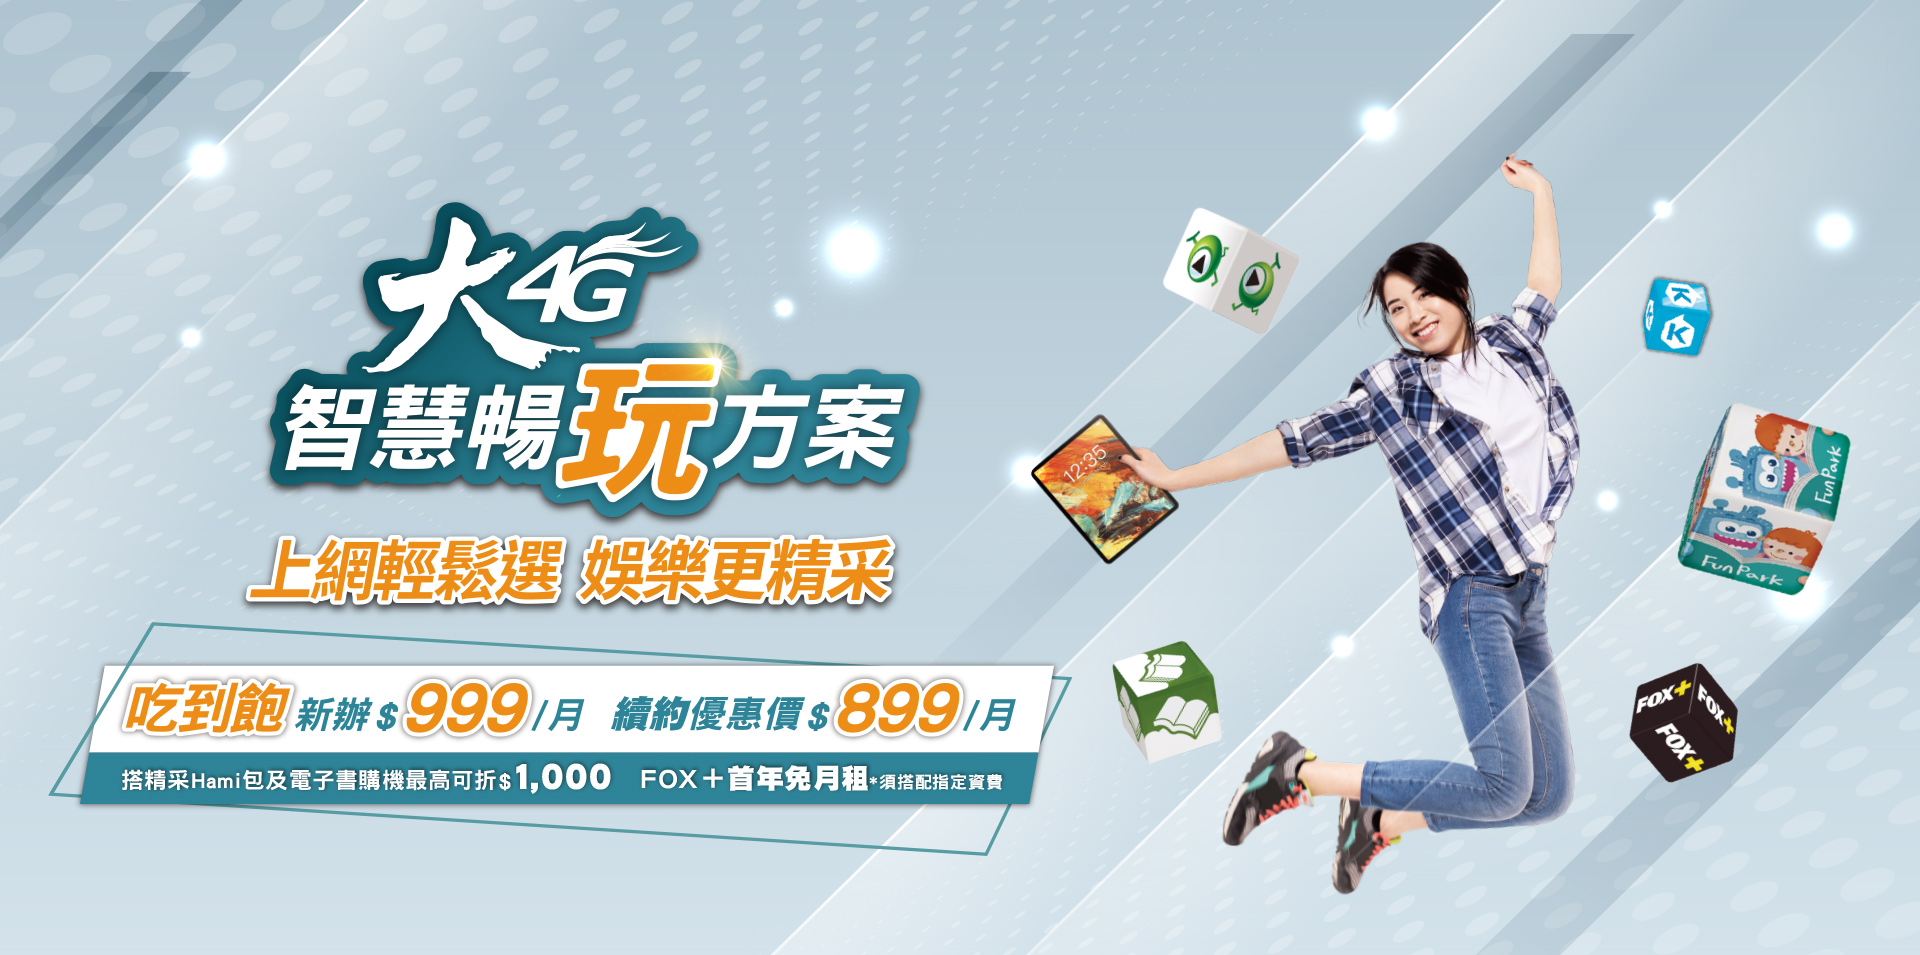
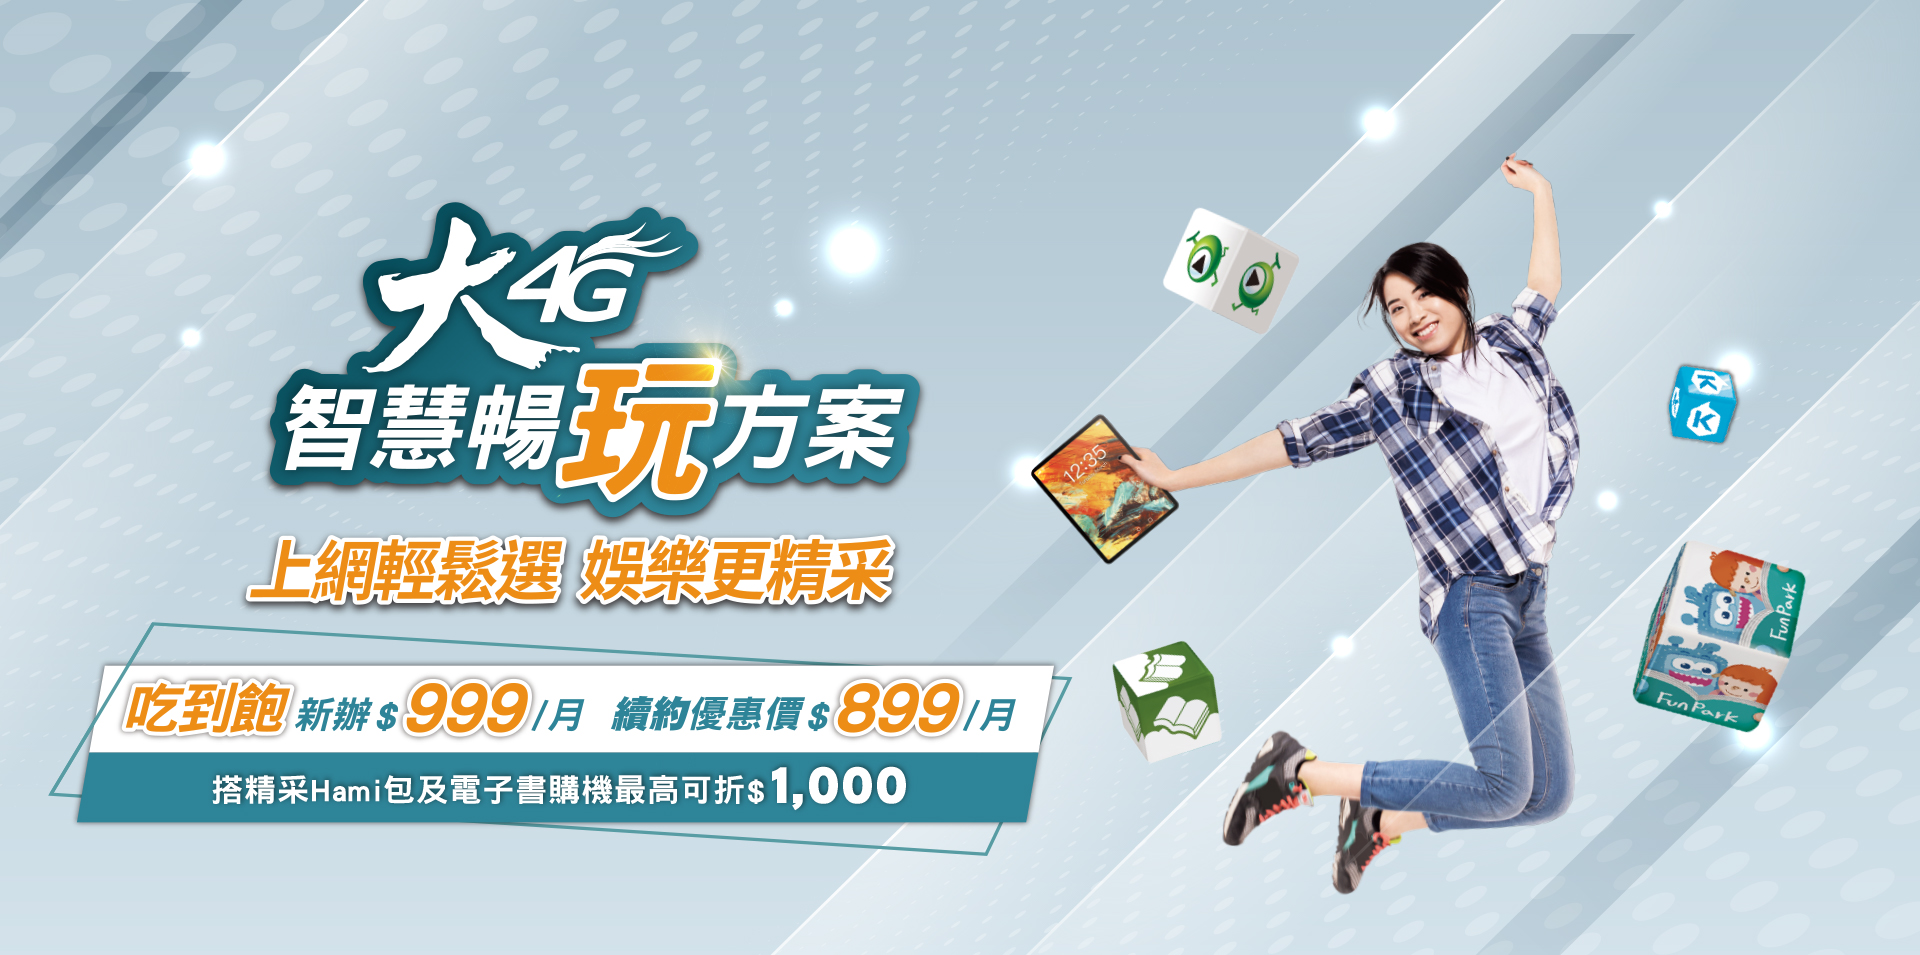
智慧暢玩
產品更新
主視覺更新
保護文字更新
方案刪除

Changed region(s): [[0.8438, 0.2733, 0.9688, 0.8199], [0.0312, 0.7895, 0.5312, 0.8806], [0.9375, 0.2126, 0.9688, 0.2733]]

diff --git a/demo/smart/index.html b/demo/smart/index.html
@@ -52,7 +52,7 @@
 	<meta name="title" content="大4G智慧暢玩方案 行動優惠推薦 | 中華電信官網 CHT.com.tw">
 	<meta name="viewport" content="width=device-width, initial-scale=1, maximum-scale=1, user-scalable=no">
 	<meta name="description" content="上網輕鬆選，娛樂更精彩，上網吃到飽新辦價$999，續約價$899，並享有限時優惠!通話均一價$3/分、搭Hami月讀包購機折$500等多項超值優惠">
-	<meta name="keywords" content="大4G,智慧大玩家,智慧暢玩,999,899,FOX+,通話均一價,上網輕鬆選，娛樂更精彩，上網吃到飽新辦$999，續約優惠價$899,中華電信,數位門市,中華電信官網,CHT.com.tw">
+	<meta name="keywords" content="大4G,智慧大玩家,智慧暢玩,999,899,通話均一價,上網輕鬆選，娛樂更精彩，上網吃到飽新辦$999，續約優惠價$899,中華電信,數位門市,中華電信官網,CHT.com.tw">
 	<!--facebook:og -->
 	<meta property="og:title" content="大4G智慧暢玩方案 行動優惠推薦 | 中華電信官網 CHT.com.tw">
 	<meta property="og:description" content="上網輕鬆選，娛樂更精彩，上網吃到飽新辦價$999，續約價$899，並享有限時優惠!通話均一價$3/分、搭Hami月讀包購機折$500等多項超值優惠">
@@ -2715,12 +2715,13 @@ h1.tit {
 				</div>
 				<!-- plan end -->
 				<div class="respect">
-					<h2>尊榮優惠</h2>
-					<ul>
-						<li><em>FOX+</em><br>(限合約期間36個月)</li><!--
-						 --><li><span><em class="red">*首年免月租</em>
-								<p>合約期間勁享強檔影音、精采運動賽事，娛樂升級無所不在<br><span>(限搭配月繳1,299元資費)</span></p>
-							</span><a href="https://www.emome.net/channel?chid=923"><img src="images/apply.png" /></a></li>
+
+					<h2></h2>
+					<ul style="display:none;">
+						<li><em></em><br></li><!--
+						 --><li><span><em class="red"></em>
+								<p><span></span></p>
+							</span></li>
 					</ul>
 
 					<h2>推薦加購服務</h2>
@@ -2729,15 +2730,15 @@ h1.tit {
 						--><li>
 							<p>月付<em>99</em>元享<em>*</em>精采Hami包加值服務任選一<em>*購機折價500元(限首項)</em></p>
 							<p class="m_v">(1) KKBOX (2) Hami Pass (3) Hami Video電視<br>
-								(4) Hami Video影劇 (5)FOX+(月繳1,299除外)<br>
-								(6) 至尊股票機 (7) 來電鈴聲超值包+Hami鈴聲館<br>
-								(8) 來電鈴聲超值包+色情守門員(行動版) (9)來電答鈴<br>
+								(4) Hami Video影劇 <br>
+								(5) 至尊股票機 (6) 來電鈴聲超值包+Hami鈴聲館<br>
+								(7) 來電鈴聲超值包+色情守門員(行動版) (8)來電答鈴<br>
 								超值包+CHT Wi-Fi(限無限送CHT Wi-Fi之資費選搭)
 							</p>
 							<p class="pc_v">
-								(1) KKBOX (2) Hami Pass (3) Hami Video電視 (4) Hami Video影劇 (5)FOX+(月繳1,299除外)<br>
-								(6) 至尊股票機 (7) 來電鈴聲超值包+Hami鈴聲館(8) 來電鈴聲超值包+色情守門員(行動版)<br>
-								(9)來電答鈴超值包+CHT Wi-Fi(限無限送CHT Wi-Fi之資費選搭)
+								(1) KKBOX (2) Hami Pass (3) Hami Video電視 (4) Hami Video影劇 <br>
+								(5) 至尊股票機 (6) 來電鈴聲超值包+Hami鈴聲館(7) 來電鈴聲超值包+色情守門員(行動版)<br>
+								(8)來電答鈴超值包+CHT Wi-Fi(限無限送CHT Wi-Fi之資費選搭)
 							</p>
 						</li>
 
@@ -2881,15 +2882,15 @@ h1.tit {
 							</a>
 						</li>
 						<li>
-                            <a href="https://www.cht.com.tw/home/consumer/mobservice/device/smart-watches/000600002239#color:712255582133"><img src="images/ika.png" />
+                            <a href="/"><img src="images/glasses.png" />
                                 <div class="spec">
-                            <h3>iKa Watch<br>愛卡兒童智慧手錶</h3>
+                            <h3>EPSON BT-30C<br>智慧眼鏡</h3>
                                 </div>
 								<ol>
-                                <li>安全定位</li>
-                                <li>即時通訊</li>
-                                <li>SOS<br>緊急求救</li>
-                                <li>運動<br>達標設定</li>
+                                <li>舒適輕巧</li>
+                                <li>高隱密性</li>
+                                <li>80吋<br>大螢幕</li>
+                                <li>OLED 數位<br>顯示技術</li>
                             </ol>
                             </a>
                         </li>
@@ -2962,12 +2963,12 @@ h1.tit {
 		<div class="exhort">
 			<div class="exhort_main">
 				<ol class="open04" style="list-style-type:decimal;">					
-					<li>上述優惠方案有效期間108/07/01-108/9/30，有最短租期且須先繳納定額帳單金額，優惠內容限合約期間有效，優惠贈送額度依申辦時所選方案而定(每月贈送額度依當週期優惠有效天數比例計算)，不隨費率調整而變動，且限當月贈送/抵扣完畢，若有未贈送完之優惠/餘額將不累計至次月亦不退現。</li>
+					<li>上述優惠方案有效期間108/10/01-109/01/01，有最短租期且須先繳納定額帳單金額，優惠內容限合約期間有效，優惠贈送額度依申辦時所選方案而定(每月贈送額度依當週期優惠有效天數比例計算)，不隨費率調整而變動，且限當月贈送/抵扣完畢，若有未贈送完之優惠/餘額將不累計至次月亦不退現。</li>
 					<li>適用資費類型收費詳請參考: <a href="https://www.emome.net/data_plan">https://www.emome.net/data_plan</a>。4G資費語音/上網量超過部分，則依各資費類型收費計收。</li>
 					<li>合約期間內依所選方案享定額國內行動上網量(每月贈送額度依當週期優惠有效天數比例計算)與指定期間上網無限用，自申辦當月起開始享有優惠；當週期國內行動上網量優惠用罄或優惠到期後，將恢復4G一般型資費行動上網量牌告費率計收或降速/停用機制處理</li>
 					<li>參加本優惠方案指定月繳金額級距有於最短租期內可享CHT Wi-Fi無線上網免費優惠，自申辦當月起開始享有優惠。詳細使用方式及上網地點請參考『<a href="http://wifi.hinet.net/pwlan/index.html"
 						 targer="_blank">CHT Wi-Fi</a>』網頁。。</li>
-					<li>限時語音通話優惠係指108/07/01-108/09/30申辦上述優惠方案於合約期間內撥打網內、網外、市話享優惠費率0.05元/秒。自申辦當日起享有優惠，合約期間內提前解約(包含但不限於退租、一退一租、欠拆、調降資費至所選方案費率限制以下、轉預付卡等)優惠即終止，日後原號或新號復租本優惠恢復/遞延至優惠租期結束。</li>
+					<li>限時語音通話優惠係指108/10/01-109/01/01申辦上述優惠方案於合約期間內撥打網內、網外、市話享優惠費率0.05元/秒。自申辦當日起享有優惠，合約期間內提前解約(包含但不限於退租、一退一租、欠拆、調降資費至所選方案費率限制以下、轉預付卡等)優惠即終止，日後原號或新號復租本優惠恢復/遞延至優惠租期結束。</li>
 					<li>續約客戶係指持有中華電信行動電話門號2年以上客戶，上網量升級係指指定月繳金額級距續約客戶所享上網量較新辦客戶同月繳級距為高。</li>
 					<li>參加上述優惠方案需先繳納定額帳單金額，其自申辦之次月起可抵扣行動電話帳單出帳金額(不含：本公司代收/代付及國際/漫遊相關費用等)，扣完為止。</li>
 					<li>參加上述優惠方案得加購加值服務「Hami書城月讀包」或「童書夢工廠」(原價149元/月，優惠價99元/月)，租期與購機合約期間相同，自申辦當月起開始享有優惠，再享購機折價500元，購機折價最低折抵至0元。本服務優惠租期內不得任意更換，且於最短租期屆滿後月租費將恢復原價計費，如不擬繼續租用，須自行申請取消服務。「Hami書城月讀包」服務適用iOS 8.0(含)以上及Android 4.1(含)以上作業系統終端；「童書夢工廠」服務適用iOS7.0(含)以上及Android4.1(含)以上之五吋以上終端，前述兩項加值服務瀏覽及下載本服務軟體需另計傳輸費，服務內容限於中華民國境內使用，詳細服務資訊請參考emome網站。</li>
@@ -2976,7 +2977,6 @@ h1.tit {
 					<li>參加本方案租用「i寶貝智慧聲控」服務24個月租約期間內，客戶申租之門號有提前取消i寶貝智慧聲控服務或解約情形（包含但不限於退租、一退一租、欠拆、調降資費至所選方案費率限制以下、轉預付卡等），則本優惠即時停止，日後原號或新號復租本優惠亦不恢復或遞延。</li>
 					<li>使用「i寶貝智慧聲控」服務須有無線網路環境(Wi-Fi或行動上網熱點分享)，用戶可至Google Play(Android手機)或App Store(iOS手機)搜尋i寶貝智慧聲控服務或ibobby下載App。</li>
 					<li>「i寶貝智慧聲控」服務需透過中華電信會員綁定，使用中華電信會員帳號（<a href="https://member.cht.com.tw/">https://member.cht.com.tw/</a>）完成帳號綁定後，即可成為i寶貝智慧聲控服務會員。同一帳號僅能綁定一台設備，用戶如需在另一支手機使用，需登入相同的會員帳號。</li>
-					<li>「FOX＋首年免月租」尊榮優惠係指108/07/01-108/09/30期間，申辦上述優惠方案月繳1,299元級距且合約租期36個月，即享FOX＋服務首年免月租費，第13個月起至合約期滿每個月優惠價99元，如不繼續租用，須自行申請取消服務。FOX＋App須自行下載安裝。活動詳情以emome網站公告為準。各機型、顏色款式以原廠供貨及各銷售門市現場為準。</li>
 					<li>行動通信品質隨地形/氣候/建物遮蔽/使用人數/地點等因素影響，若使用地點無法支援LTE網路，則可能會轉為UMTS網路，連線速率將會降低。您可向本公司申請行動上網服務試用，試用期間最長為七天(168小時)，每一證號每三年可申請試用乙次為限。點我看<a
 						 href="https://www.emome.net/internet_setting/notebook" targer="_blank">詳細內容</a></li>
 					<li>上述優惠方案之內容及限制條件依申辦現場優惠同意書為準，中華電信保有隨時修正、暫停、終止本活動之權利。</li>
